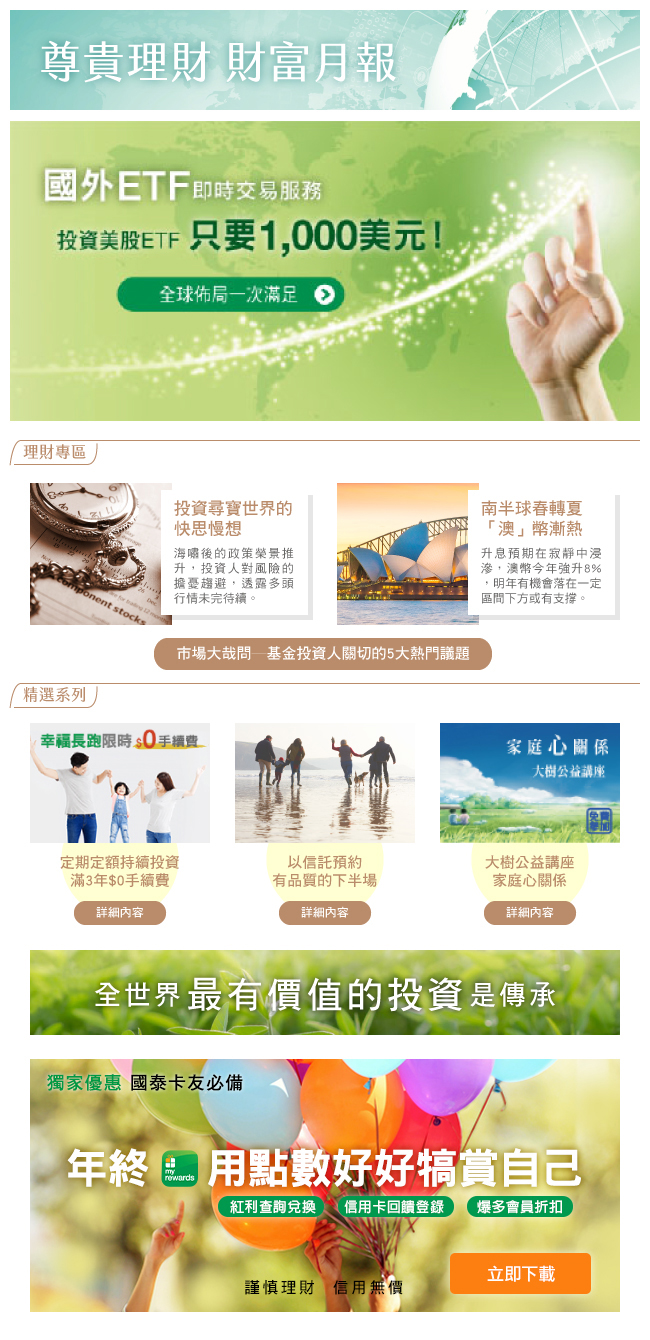
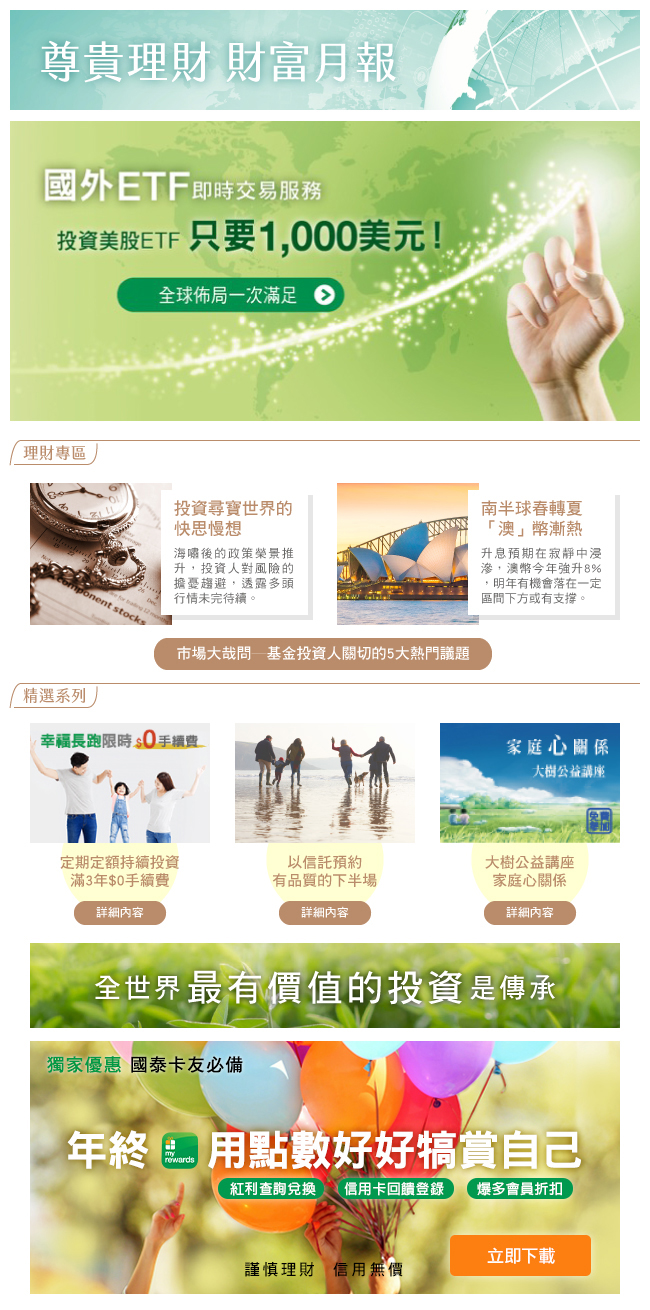
update

diff --git a/monthly-report-201711/index.html b/monthly-report-201711/index.html
@@ -71,7 +71,7 @@
 <table width="650" border="0" cellpadding="0" cellspacing="0">
 	<tr>
 		<td>
-			<img src="images/monthly-report-201711.jpg" alt="" width="650" height="1340" usemap="#Map6" border="0"></td>
+			<img src="images/monthly-report-201711.jpg" alt="" width="650" height="1310" usemap="#Map6" border="0"></td>
 	</tr>
 <tr>
 <td valign="middle" bgcolor="#CCCCCC" height="60"><table width="630" border="0" align="center" cellpadding="0" cellspacing="0">
@@ -175,9 +175,9 @@
   <area shape="rect" coords="154,637,493,669" href="https://www.cathaybk.com.tw/cathaybk/fund/event/cathayfund/#QA" target="_blank" alt="市場大哉問 ─ 基金投資人關切的5大熱門議題">
   <area shape="rect" coords="30,722,210,926" href="https://www.cathaybk.com.tw/cathaybk/fund/event/cathayfund/#promo" target="_blank" alt="幸福長跑限時0手續費">
   <area shape="rect" coords="235,723,417,926" href="http://topic.cw.com.tw/event/cathybank/index2.html" target="_blank" alt="以信託預約有品質的下半場">
-  <area shape="rect" coords="441,723,621,926" href="https://www.cathaybk.com.tw/cathaybk/" target="_blank" alt="大樹公益講座">
-  <area shape="rect" coords="31,949,619,1036" href="http://topic.cw.com.tw/event/cathybank/index2.html" target="_blank" alt="全世界最有價值的投資是傳承">
-  <area shape="rect" coords="30,1058,620,1313" href="https://myrewards.app.link/P5vegf60HH" target="_blank" alt="年終 用點數好好犒賞自己">
+  <area shape="rect" coords="441,723,621,926" href="http://www.cathaybk.org.tw/index.htm" target="_blank" alt="大樹公益講座">
+  <area shape="rect" coords="31,942,619,1029" href="http://topic.cw.com.tw/event/cathybank/index2.html" target="_blank" alt="全世界最有價值的投資是傳承">
+  <area shape="rect" coords="30,1039,620,1294" href="https://myrewards.app.link/P5vegf60HH" target="_blank" alt="年終 用點數好好犒賞自己">
 </map>
 </body>
 </html>
